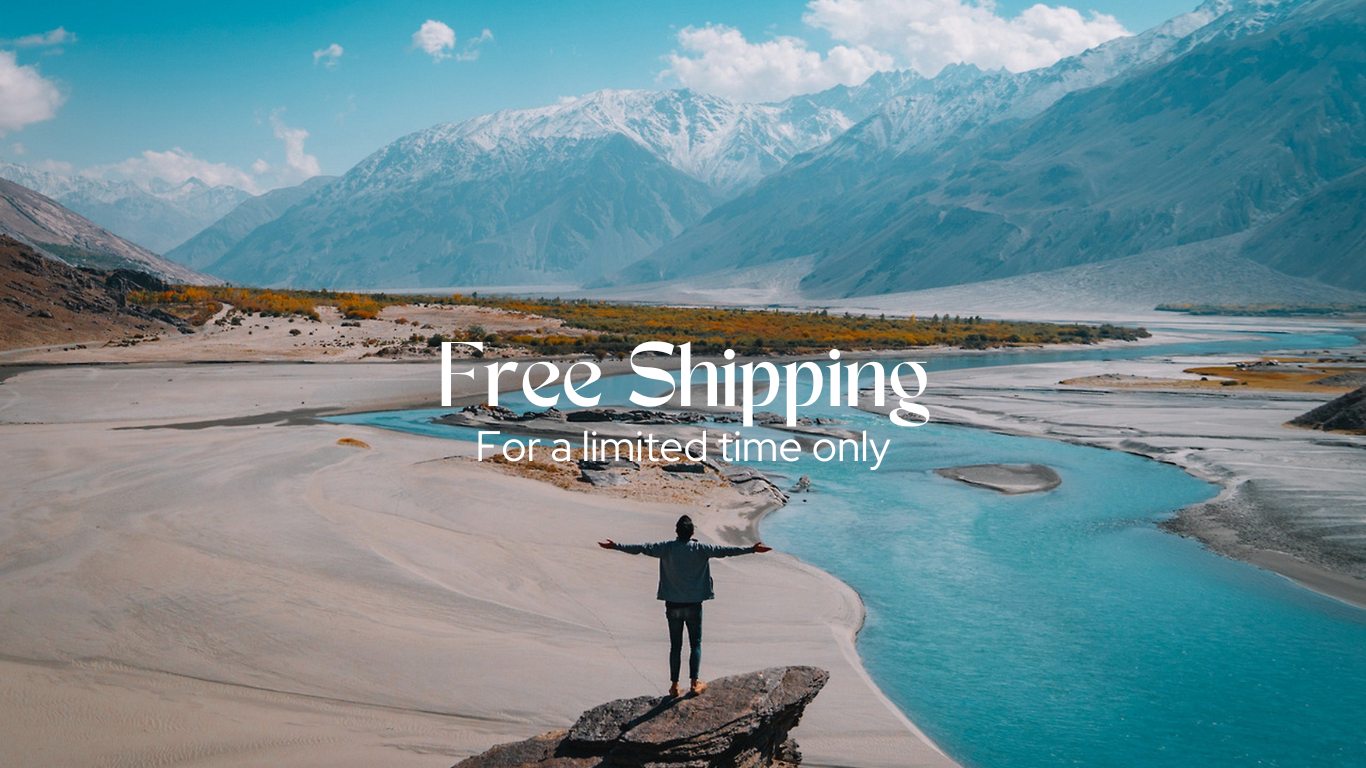
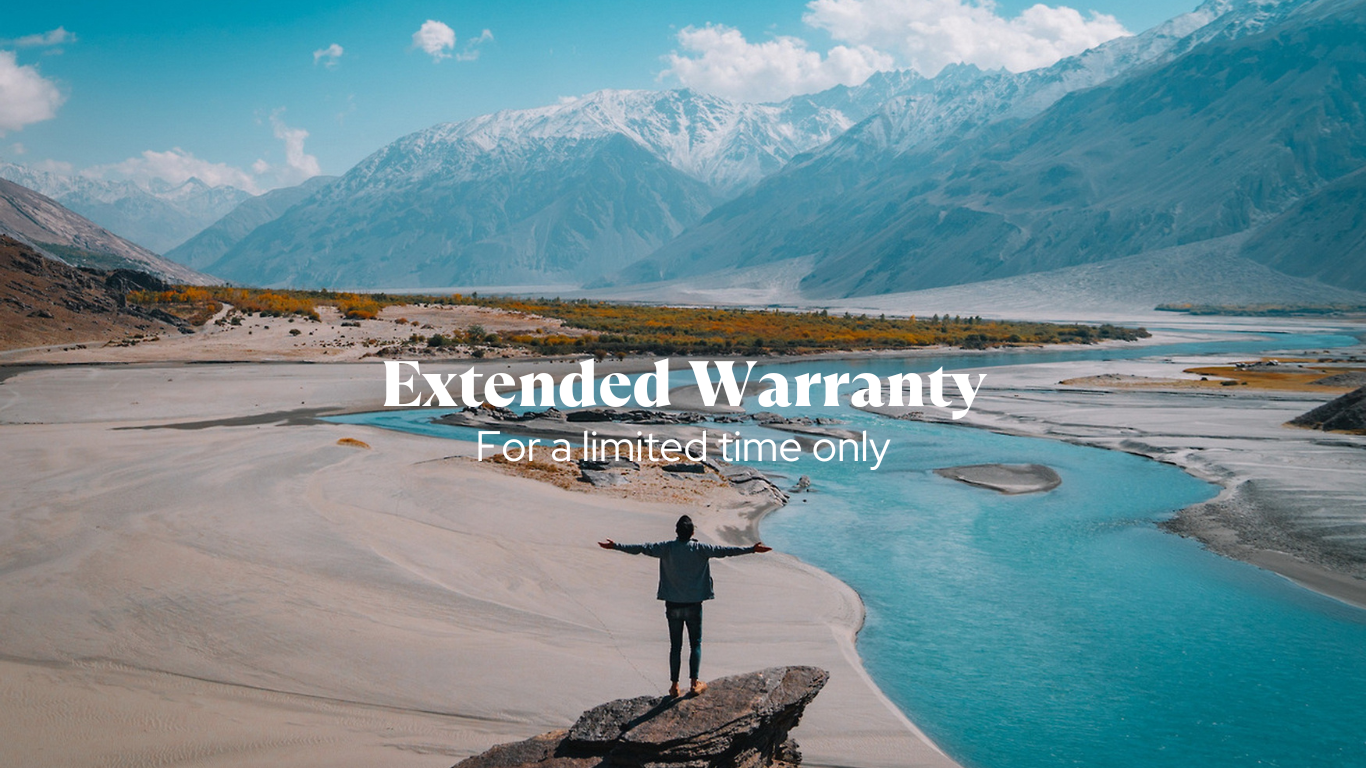
made cart utils and cartSlice, and modified carousel

Changed region(s): [[0.2767, 0.4375, 0.7379, 0.5625]]

diff --git a/Frontend/src/redux/features/cart/cartSlice.js b/Frontend/src/redux/features/cart/cartSlice.js
@@ -1,0 +1,21 @@
+import {createSlice} from '@reduxjs/toolkit'
+
+const initialState = localStorage.getItem('cart') ? JSON.parse(localStorage.getItem("cart")) : {cartItems: [], shippingAddress: {}, paymetMethod: "Paypal"}
+
+const cartSlice = createSlice({
+    name: 'cart',
+    initialState,
+    reducers: {
+        addToCart: (state, action) => {
+            const {user, rating, numReviews, reviews, ...item} = action.payload
+            const existItem = state.cartItems.find((itemX) => itemX._id === item._id)
+
+
+            if (existItem) {
+                state.cartItems = state.cartItems.map((itemX) => itemX._id === existItem._id ? item : itemX)
+            } else {
+                state.cartItems = [...state.cartItems, item];
+            }
+        }
+    }
+})

diff --git a/Frontend/src/components/Carousel.jsx b/Frontend/src/components/Carousel.jsx
@@ -1,6 +1,6 @@
 import priceMatch from "../images/priceMatchSlider.png"
 import salewaSlider from "../images/salewaSlider.png"
-import freeShipping from "../images/freeShippingSlider.png"
+import extendedWarramty from "../images/freeShippingSlider.png"
 import "slick-carousel/slick/slick.css"; 
 import "slick-carousel/slick/slick-theme.css";
 import Slider from "react-slick";
@@ -23,7 +23,7 @@ const Carousel = () => {
         <Slider {...settings}>
           <img src={salewaSlider} alt="New Salew in stock" />
           <img src={priceMatch} alt="Price match competitors" />
-          <img src={freeShipping} alt="Free shipping for a limited time" />
+          <img src={extendedWarramty} alt="Extended warranty for a limited time" />
         </Slider>
       </div>
   )

diff --git a/Frontend/src/utils/cart.js b/Frontend/src/utils/cart.js
@@ -1,0 +1,25 @@
+export const addDecimals = (num) => {
+  return (Math.round(num * 100) / 100).toFixed(2);
+};
+
+export const updateCart = (state) => {
+  state.itemsPrice = addDecimals(
+    state.cartItems.reduce(
+      (acc, item) => acc + item.price * item.price * item.qty,
+      0
+    )
+  );
+
+  state.shippingPrice = addDecimals(state.itemsPrice > 100 ? 0 : 10)
+
+  state.taxPrice = addDecimals(Number((0.10 * state.itemsPrice).toFixed(2)))
+
+  state.totalPrice = (
+    Number(state.itemsPrice) +
+    Number(state.shippingPrice) +
+    Number(state.taxPrice)
+  ).toFixed(2)
+
+  localStorage.setItem('cart', JSON.stringify(state))
+  return state
+};
